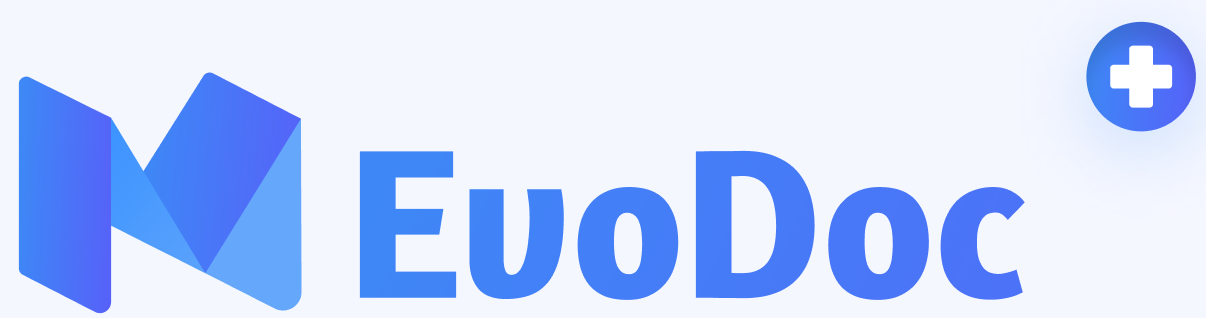
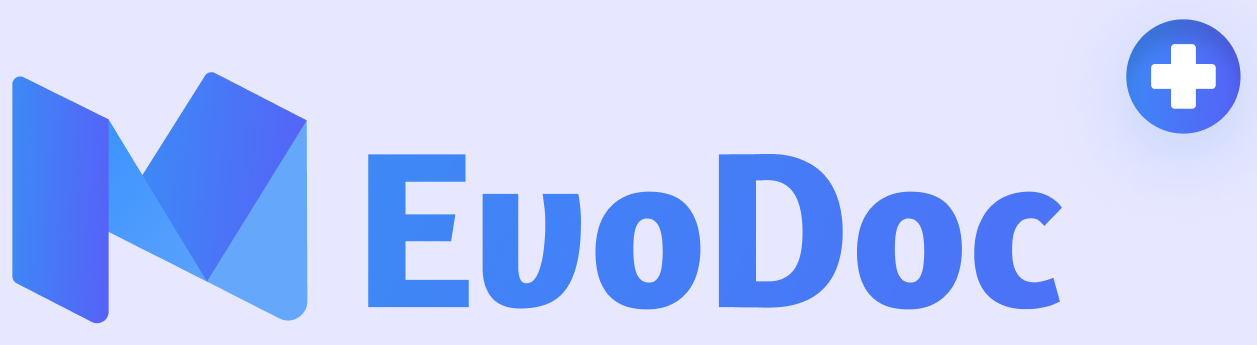
homepage

diff --git a/src/Homepage/BackgroundDesign.js b/src/Homepage/BackgroundDesign.js
@@ -1,5 +1,5 @@
 import React from 'react';
-import { Stethoscope, HeartPulse, Pill } from 'lucide-react';
+import { Stethoscope, HeartPulse, Pill, Syringe, Bandage, Thermometer } from 'lucide-react';
 
 const FloatingShape = ({ className, children }) => (
   <div className={`absolute w-12 h-12 flex items-center justify-center rounded-full bg-blue-100/40 animate-float shadow-md ${className}`}>
@@ -9,17 +9,31 @@ const FloatingShape = ({ className, children }) => (
 
 const BackgroundDesign = () => {
   return (
-    <div className="absolute inset-0 overflow-hidden">
+    <div className="fixed inset-0 -z-10 overflow-hidden bg-[#E7E7FF]">
       {/* Floating Medical Icons */}
-      <FloatingShape className="top-16 left-[15%]">
-        <Stethoscope size={24} className="text-blue-600 animate-pulse" />
+      <FloatingShape className="top-16 left-[15%] animate-bounce-slow">
+        <Stethoscope size={24} className="text-blue-600" />
       </FloatingShape>
-      <FloatingShape className="top-36 right-[20%]">
-        <HeartPulse size={24} className="text-red-500 animate-pulse" />
+      <FloatingShape className="top-36 right-[20%] animate-float-delay">
+        <HeartPulse size={24} className="text-red-500" />
       </FloatingShape>
-      <FloatingShape className="bottom-16 left-[25%]">
-        <Pill size={24} className="text-green-500 animate-pulse" />
+      <FloatingShape className="bottom-16 left-[25%] animate-float">
+        <Pill size={24} className="text-green-500" />
       </FloatingShape>
+      <FloatingShape className="top-24 right-[30%] animate-float">
+        <Syringe size={24} className="text-purple-500" />
+      </FloatingShape>
+      <FloatingShape className="bottom-32 right-[10%] animate-float-delay">
+        <Bandage size={24} className="text-yellow-500" />
+      </FloatingShape>
+      <FloatingShape className="top-48 left-[10%] animate-bounce-slow">
+        <Thermometer size={24} className="text-orange-500" />
+      </FloatingShape>
+
+      {/* Extra Floating Shapes */}
+      <div className="absolute top-20 left-1/4 w-4 h-4 bg-yellow-300/20 rounded animate-float" />
+      <div className="absolute top-40 right-1/4 w-4 h-4 bg-blue-300/20 rounded animate-float-delay" />
+      <div className="absolute bottom-20 left-1/3 w-4 h-4 bg-red-300/20 rounded animate-float" />
     </div>
   );
 };

diff --git a/src/Homepage/HealthTrackingFeatures.js b/src/Homepage/HealthTrackingFeatures.js
@@ -3,18 +3,21 @@ import { ChartBar, Pill, Bot } from 'lucide-react';
 
 const HealthTrackingFeatures = () => {
   return (
-    <div className="p-6 rounded-lg max-w-4xl mx-auto bg-transparent">
+    <div className="p-6 max-w-4xl mx-auto">
+      {/* Heading */}
       <h1 className="text-3xl font-bold text-blue-600 mb-6 text-center">
         Personalized care with smart health tracking Future
       </h1>
       
+      {/* Subtext */}
       <div className="text-gray-600 text-center mb-8">
         We calculate your BMI index from data like age, height, weight.
       </div>
       
+      {/* Feature Grid - Only these will have a white background */}
       <div className="grid md:grid-cols-3 gap-6">
         {/* Treatment Recommendations */}
-        <div className="p-5 rounded-lg text-center">
+        <div className="p-5 text-center shadow-md rounded-lg bg-white">
           <div className="flex justify-center mb-4">
             <Pill className="text-blue-600" size={48} />
           </div>
@@ -27,7 +30,7 @@ const HealthTrackingFeatures = () => {
         </div>
         
         {/* Interactive Health Assistant */}
-        <div className="p-5 rounded-lg text-center">
+        <div className="p-5 text-center shadow-md rounded-lg bg-white">
           <div className="flex justify-center mb-4">
             <Bot className="text-green-600" size={48} />
           </div>
@@ -40,7 +43,7 @@ const HealthTrackingFeatures = () => {
         </div>
         
         {/* Health Insights */}
-        <div className="p-5 rounded-lg text-center">
+        <div className="p-5 text-center shadow-md rounded-lg bg-white">
           <div className="flex justify-center mb-4">
             <ChartBar className="text-purple-600" size={48} />
           </div>

diff --git a/src/Homepage/Header.js b/src/Homepage/Header.js
@@ -1,30 +1,15 @@
 import React from 'react';
 import { Search, Mic, Image } from 'lucide-react';
 import LogoImage from '../image/image.png'; // Adjust the path based on your project structure
-import doc from '../image/doc.png'
+import doc from '../image/doc.png';
 
 const Logo = () => (
   <img src={LogoImage} alt="EvoDoc Logo" className="w-48" />
 );
 
-const FloatingShape = ({ className }) => (
-  <div className={`absolute w-8 h-8 rounded-lg bg-blue-100/20 animate-float ${className}`} />
-);
-
 const HealthcareLanding = () => {
   return (
-    <div className="min-h-screen bg-[#F5F7FF] relative overflow-hidden">
-      {/* Floating shapes */}
-      <div className="absolute top-20 left-1/4">
-        <div className="w-4 h-4 bg-yellow-300/20 rounded animate-float" />
-      </div>
-      <div className="absolute top-40 right-1/4">
-        <div className="w-4 h-4 bg-blue-300/20 rounded animate-float-delay" />
-      </div>
-      <div className="absolute bottom-20 left-1/3">
-        <div className="w-4 h-4 bg-red-300/20 rounded animate-float" />
-      </div>
-      
+    <div className="min-h-screen relative overflow-hidden">
       {/* Navigation */}
       <nav className="container mx-auto px-6 py-4 flex justify-between items-center">
         <div className="flex items-center">
@@ -85,7 +70,6 @@ const HealthcareLanding = () => {
         {/* Hero Image */}
         <div className="w-1/2 flex justify-center">
           <div className="relative w-96 h-96">
-            <div className="" />
             <img
                 src={doc}
                 alt="Doctor with laptop"

diff --git a/src/App.js b/src/App.js
@@ -8,9 +8,9 @@ function App() {
   return (
     <>
       <BackgroundEffects /> {/* Keeps the background fixed across the page */}
-      <div className="App">
+      <div className="App relative z-10">
         <Header />
-        <Track />
+        <Track /> {/* Now has contrast & is visible */}
       </div>
     </>
   );
